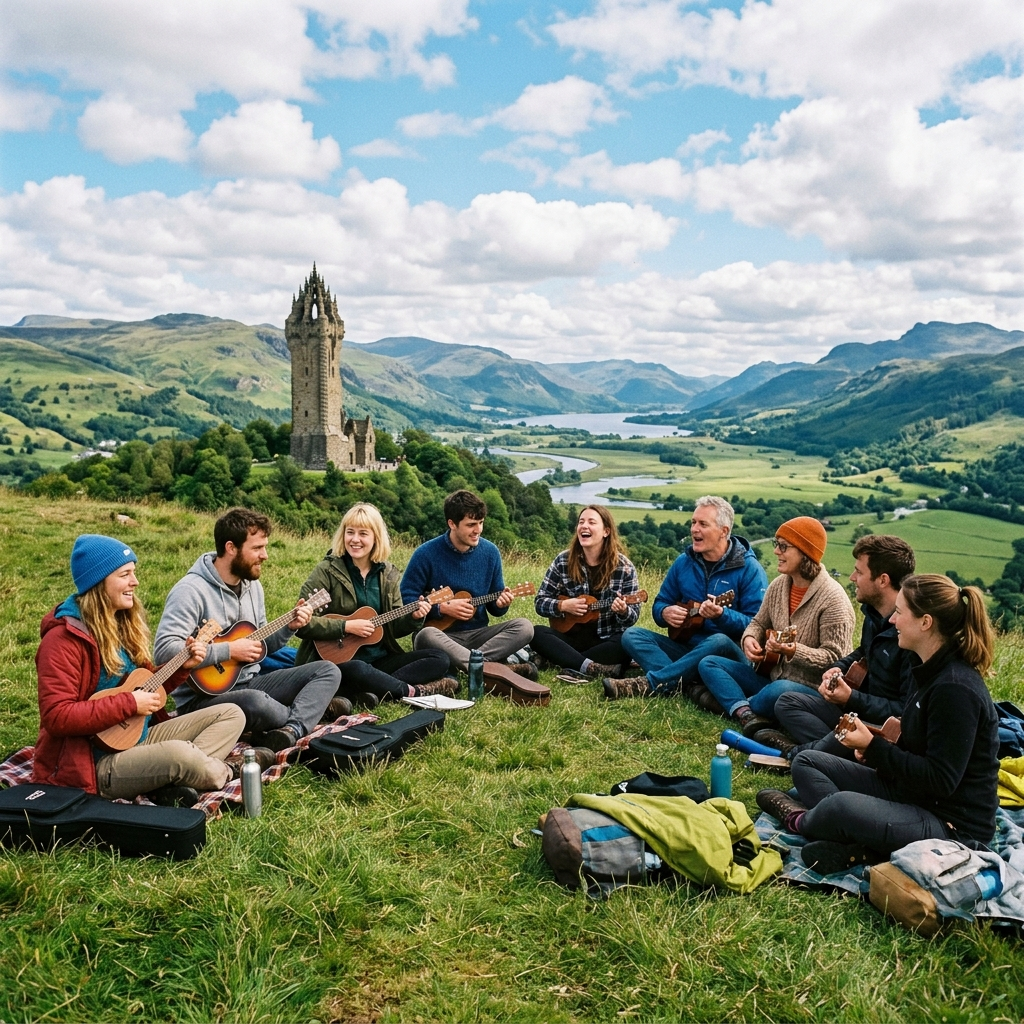
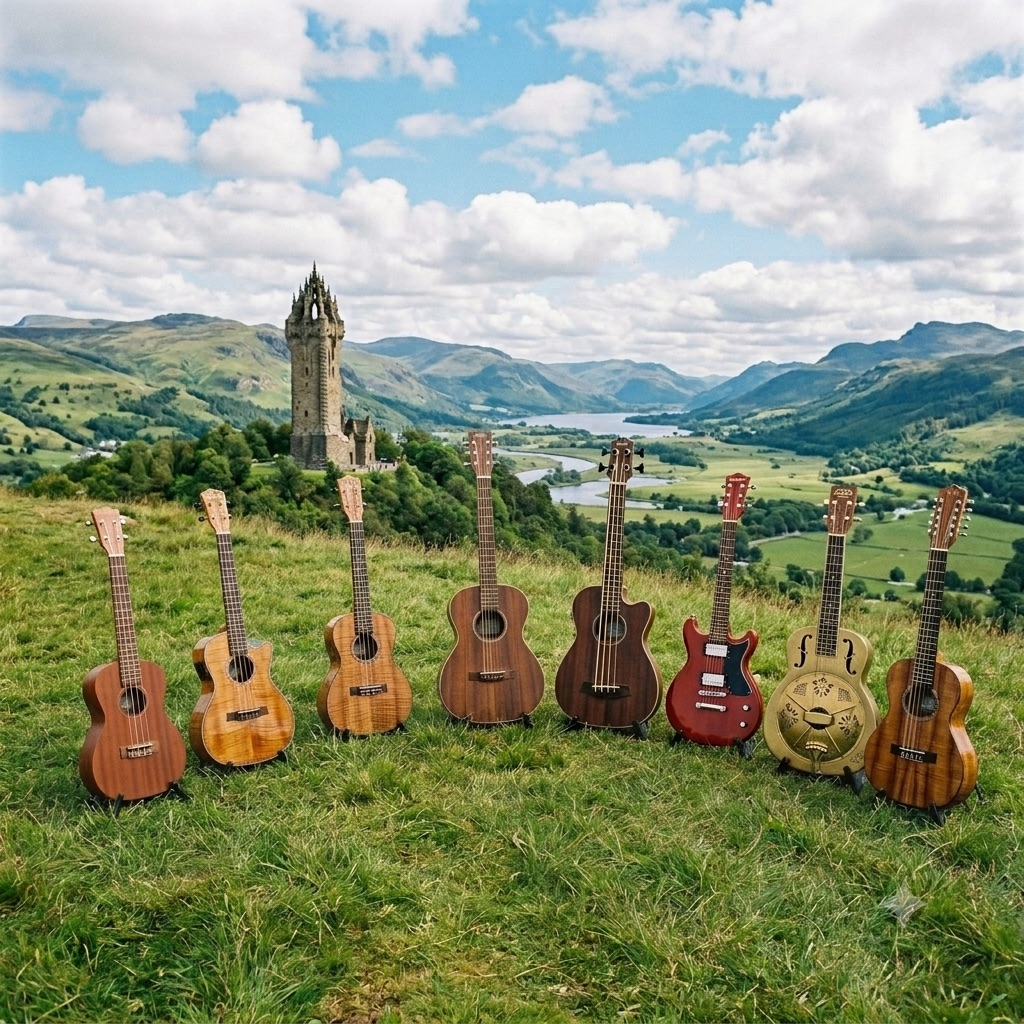
More tweaks

diff --git a/src/components/JoinUsPage.tsx b/src/components/JoinUsPage.tsx
@@ -13,20 +13,16 @@ import {
   ArrowRight 
 } from 'lucide-react';
 import logoBadge from '../assets/images/ochil_logo_badge_1785148841944.jpg';
-import ochilUkuleleImg from '../assets/images/ochil_hero_ukulele_1785147316608.jpg';
-import indoorPhoto from '../assets/images/gallery_indoor_group_1785148867749.jpg';
+import groupshotImg from '../assets/images/Groupshot.jpg';
 
 interface JoinUsPageProps {
   onOpenContact: () => void;
   onNavigateHome: () => void;
 }
 
-export const JoinUsPage: React.FC<JoinUsPageProps> = ({ onOpenContact, onNavigateHome }) => {
-  const scrollToForm = () => {
-    const element = document.getElementById('join-form-section');
-    if (element) {
-      element.scrollIntoView({ behavior: 'smooth', block: 'start' });
-    }
+export const JoinUsPage: React.FC<JoinUsPageProps> = ({ onOpenContact }) => {
+  const handleOpenJoinForm = () => {
+    window.open('https://heartfelt-biscotti-1bbd29.netlify.app/forms/join.html', '_blank');
   };
 
   return (
@@ -108,7 +104,7 @@ export const JoinUsPage: React.FC<JoinUsPageProps> = ({ onOpenContact, onNavigat
             {/* Prominent Action Button */}
             <div className="pt-4 flex flex-wrap items-center gap-4">
               <button
-                onClick={scrollToForm}
+                onClick={handleOpenJoinForm}
                 className="bg-[#596C34] hover:bg-[#4C5E2C] text-white px-8 py-4 rounded-xl font-extrabold text-sm sm:text-base uppercase tracking-wider shadow-lg transition-all active:scale-95 flex items-center gap-3 cursor-pointer"
               >
                 <Users className="w-5 h-5" />
@@ -130,8 +126,8 @@ export const JoinUsPage: React.FC<JoinUsPageProps> = ({ onOpenContact, onNavigat
           <div className="lg:col-span-5">
             <div className="relative rounded-3xl overflow-hidden shadow-xl border-4 border-white bg-[#2F1045] group">
               <img
-                src={ochilUkuleleImg}
-                alt="Ukuleles at the Ochil Hills"
+                src={groupshotImg}
+                alt="Ochil Strummers Group Shot"
                 className="w-full h-[420px] object-cover group-hover:scale-105 transition-transform duration-500"
                 referrerPolicy="no-referrer"
               />
@@ -150,7 +146,7 @@ export const JoinUsPage: React.FC<JoinUsPageProps> = ({ onOpenContact, onNavigat
       </section>
 
       {/* 3. Session Details & What to Expect Cards */}
-      <section className="bg-white py-12 sm:py-16 border-t border-b border-gray-200">
+      <section className="bg-white py-12 sm:py-16 border-t border-gray-200">
         <div className="max-w-7xl mx-auto px-4 sm:px-6 lg:px-8 space-y-10">
           
           <div className="text-center max-w-2xl mx-auto space-y-2">
@@ -215,7 +211,7 @@ export const JoinUsPage: React.FC<JoinUsPageProps> = ({ onOpenContact, onNavigat
             </div>
 
             <button
-              onClick={scrollToForm}
+              onClick={handleOpenJoinForm}
               className="bg-[#596C34] hover:bg-[#4C5E2C] text-white font-black px-8 py-4 rounded-xl text-xs sm:text-sm uppercase tracking-wider shadow-lg transition-all active:scale-95 shrink-0 cursor-pointer flex items-center gap-2"
             >
               <Users className="w-4 h-4" />
@@ -223,45 +219,6 @@ export const JoinUsPage: React.FC<JoinUsPageProps> = ({ onOpenContact, onNavigat
             </button>
           </div>
 
-        </div>
-      </section>
-
-      {/* 4. Embedded Registration Form Section */}
-      <section id="join-form-section" className="py-12 sm:py-16 bg-[#F4F2E9] border-t border-gray-200">
-        <div className="max-w-4xl mx-auto px-4 sm:px-6 lg:px-8 space-y-6">
-          <div className="bg-white rounded-3xl p-6 sm:p-10 border border-gray-200 shadow-xl space-y-6">
-            <div className="text-center max-w-2xl mx-auto space-y-2">
-              <span className="inline-block bg-[#EBF0E1] text-[#596C34] text-xs font-bold uppercase tracking-wider px-3.5 py-1 rounded-full border border-green-200">
-                Online Membership Form
-              </span>
-              <h2 className="text-2xl sm:text-3xl font-black font-serif text-[#3A1554]">
-                Register with Ochil Strummers
-              </h2>
-              <p className="text-xs sm:text-sm text-gray-600">
-                Please fill in your details in the secure form below to join our group. If you have trouble viewing the form, you can also{' '}
-                <a
-                  href="https://heartfelt-biscotti-1bbd29.netlify.app/forms/join.html"
-                  target="_blank"
-                  rel="noopener noreferrer"
-                  className="text-[#3A1554] font-bold underline hover:text-[#5C1D7A]"
-                >
-                  open the form directly in a new tab
-                </a>
-                .
-              </p>
-            </div>
-
-            {/* Form iframe container */}
-            <div className="relative w-full overflow-hidden rounded-2xl border border-gray-200 bg-white h-[680px] sm:h-[720px] md:h-[760px] shadow-inner">
-              <iframe
-                src="https://heartfelt-biscotti-1bbd29.netlify.app/forms/join.html"
-                title="Ochil Strummers Registration Form"
-                className="absolute inset-0 w-full h-full border-0"
-                referrerPolicy="no-referrer"
-                sandbox="allow-forms allow-scripts allow-same-origin allow-popups"
-              />
-            </div>
-          </div>
         </div>
       </section>
 

diff --git a/src/components/MembersPage.tsx b/src/components/MembersPage.tsx
@@ -73,20 +73,6 @@ export interface GigSetlist {
 
 const INITIAL_SETLISTS: GigSetlist[] = [
   {
-    id: 'set-1',
-    title: 'Monday Night Rehearsal Setlist',
-    date: 'Rehearsals Weekly at 7:30 PM',
-    location: 'The Johnstone Arms, Alva',
-    status: 'UPCOMING',
-    songs: [
-      { title: 'Loch Lomond', originalArtist: 'Traditional Scottish', key: 'C', tempo: '120 bpm', strumPattern: 'Calypso Strum (D D-U U-D-U)', notes: 'Our core club anthem. Practice the key transitions on the chorus.' },
-      { title: "I'm Gonna Be (500 Miles)", originalArtist: 'The Proclaimers', key: 'E', tempo: '132 bpm', strumPattern: 'Driving 4/4 March', notes: 'Keep a fast steady tempo. Staccato strums on verses.' },
-      { title: 'Wild Mountain Thyme', originalArtist: 'Traditional Scottish', key: 'G', tempo: '90 bpm', strumPattern: '3/4 Waltz Strum (D D U)', notes: 'Arpeggiated fingerstyle pattern optional for intro.' },
-      { title: 'Dirty Old Town', originalArtist: 'The Pogues / Ewan MacColl', key: 'G', tempo: '105 bpm', strumPattern: 'Steady Folk (D D U D D U)', notes: 'Transition to key of C on the third verse.' },
-      { title: 'Sloop John B', originalArtist: 'The Beach Boys', key: 'G', tempo: '122 bpm', strumPattern: 'Calypso Strum', notes: 'Focus on clean C to D7 changes in the chorus.' }
-    ]
-  },
-  {
     id: 'set-2',
     title: 'Alva Games Community Gala Live Set',
     date: 'Saturday, August 15, 2026 at 2:30 PM',
@@ -122,7 +108,7 @@ export const MembersPage: React.FC<MembersPageProps> = ({ onOpenContact, onNavig
   // Tab State for Logged In Member Portal
   const [activeTab, setActiveTab] = useState<'SONGBOOKS' | 'SETLISTS' | 'MARKETPLACE' | 'WORKSHOPS'>('SONGBOOKS');
   const [setlists, setSetlists] = useState<GigSetlist[]>(INITIAL_SETLISTS);
-  const [selectedSetlistId, setSelectedSetlistId] = useState<string>('set-1');
+  const [selectedSetlistId, setSelectedSetlistId] = useState<string>('set-2');
   const [selectedSongDetails, setSelectedSongDetails] = useState<SetlistSong | null>(null);
 
   // Setlists Modal State (Committee / Leader Authority)
@@ -673,18 +659,6 @@ But I would walk 500 miles, and I would walk 500 more!</div>
               </p>
             </div>
 
-            {/* Right Column: Logo Badge */}
-            <div className="shrink-0 flex items-center gap-4">
-              <div className="w-16 h-16 sm:w-20 sm:h-20 rounded-full overflow-hidden border-2 border-amber-300/80 shadow-lg bg-white shrink-0">
-                <img 
-                  src={logoBadge} 
-                  alt="Ochil Strummers Logo" 
-                  className="w-full h-full object-cover" 
-                  referrerPolicy="no-referrer"
-                />
-              </div>
-            </div>
-
           </div>
         </div>
       </section>
@@ -1023,9 +997,6 @@ But I would walk 500 miles, and I would walk 500 more!</div>
                     Current Songbook
                   </h3>
                 </div>
-                <p className="text-xs sm:text-sm text-gray-600 max-w-md">
-                  Our latest 2026 rehearsal editions and gig performance books. Standard GCEA &amp; Baritone DGBE chords included.
-                </p>
               </div>
 
               <div className="grid grid-cols-1 lg:grid-cols-2 gap-6">

diff --git a/src/components/AboutUsPage.tsx b/src/components/AboutUsPage.tsx
@@ -21,6 +21,7 @@ import {
 import logoBadge from '../assets/images/ochil_logo_badge_1785148841944.jpg';
 import thistlePhoto from '../assets/images/gallery_thistle_flower_1785148905098.jpg';
 import pubSessionPhoto from '../assets/images/ukulele_pub_session_1785257120765.jpg';
+import alvaRehearsalPhoto from '../assets/images/gallery_outdoor_monument_1785148882137.jpg';
 
 export interface AboutUsPageProps {
   onOpenContact?: () => void;
@@ -107,13 +108,22 @@ export const AboutUsPage: React.FC<AboutUsPageProps> = ({
             </div>
           </div>
 
-          {/* Right Image Card Column - Replaced with an elegant premium CSS visual placeholder */}
+          {/* Right Image Card Column - Replaced with Alva rehearsal home image background */}
           <div className="lg:col-span-5 relative mt-2 lg:mt-0">
-            <div className="relative rounded-[28px] overflow-hidden shadow-2xl bg-gradient-to-br from-[#4C1D95] via-[#3A1554] to-[#1E0B2E] p-8 text-white h-[450px] sm:h-[520px] flex flex-col justify-between border border-purple-500/20">
+            <div className="relative rounded-[28px] overflow-hidden shadow-2xl p-8 text-white h-[450px] sm:h-[520px] flex flex-col justify-between border border-purple-500/20">
+              
+              {/* Background Image and Overlays */}
+              <img 
+                src={alvaRehearsalPhoto} 
+                alt="Alva Rehearsal Home" 
+                className="absolute inset-0 w-full h-full object-cover z-0"
+                referrerPolicy="no-referrer"
+              />
+              <div className="absolute inset-0 bg-gradient-to-t from-[#200A30]/95 via-[#3A1554]/70 to-[#4C1D95]/40 z-10" />
               
               {/* Decorative Background Elements */}
-              <div className="absolute inset-0 bg-[radial-gradient(circle_at_top_right,rgba(251,191,36,0.15),transparent_60%)] pointer-events-none" />
-              <div className="absolute top-10 right-10 opacity-10 pointer-events-none">
+              <div className="absolute inset-0 bg-[radial-gradient(circle_at_top_right,rgba(251,191,36,0.15),transparent_60%)] pointer-events-none z-10" />
+              <div className="absolute top-10 right-10 opacity-20 pointer-events-none z-10">
                 <Music className="w-32 h-32 text-white" />
               </div>
 

diff --git a/src/components/Header.tsx b/src/components/Header.tsx
@@ -1,5 +1,5 @@
 import React, { useState } from 'react';
-import { Facebook, Instagram, Mail, Menu, X, Youtube } from 'lucide-react';
+import { Facebook, Instagram, Menu, X } from 'lucide-react';
 
 interface HeaderProps {
   activeNav: string;
@@ -101,24 +101,6 @@ export const Header: React.FC<HeaderProps> = ({ activeNav, setActiveNav, onOpenC
             >
               <TikTokIcon className="w-3.5 h-3.5 sm:w-4 sm:h-4" />
             </a>
-
-            <a
-              href="https://youtube.com"
-              target="_blank"
-              rel="noreferrer"
-              className="w-8 h-8 sm:w-10 sm:h-10 rounded-full bg-[#3A1554] text-white flex items-center justify-center hover:bg-[#5C1D7A] transition-colors shadow-xs"
-              aria-label="YouTube Channel"
-            >
-              <Youtube className="w-4 h-4 sm:w-5 sm:h-5" />
-            </a>
-
-            <button
-              onClick={onOpenContact}
-              className="w-8 h-8 sm:w-10 sm:h-10 rounded-full bg-[#3A1554] text-white flex items-center justify-center hover:bg-[#5C1D7A] transition-colors shadow-xs cursor-pointer"
-              aria-label="Contact Email"
-            >
-              <Mail className="w-4 h-4 sm:w-5 sm:h-5" />
-            </button>
 
             {/* Mobile Menu Button */}
             <button

diff --git a/src/components/SectionModals.tsx b/src/components/SectionModals.tsx
@@ -1,10 +1,10 @@
 import React, { useState } from 'react';
 import { X, Calendar, MapPin, Music, Volume2, Sparkles, Check } from 'lucide-react';
 import { playStrumChord } from '../utils/audioTuner';
-import photo1 from '../assets/images/photo1.jpeg';
-import photo2 from '../assets/images/photo2.jpeg';
-import photo3 from '../assets/images/photo3.jpeg';
-import photo4 from '../assets/images/photo4.jpeg';
+import photo1 from '../assets/images/gallery_outdoor_monument_1785148882137.jpg';
+import photo2 from '../assets/images/ukulele_pub_session_1785257120765.jpg';
+import photo3 from '../assets/images/gallery_indoor_group_1785148867749.jpg';
+import photo4 from '../assets/images/gallery_women_strummers_1785148893490.jpg';
 
 interface ModalProps {
   type: 'CONTACT' | 'EVENTS' | 'SONGBOOK' | 'ABOUT' | 'GALLERY' | null;

diff --git a/src/components/EventsAndPhotosSection.tsx b/src/components/EventsAndPhotosSection.tsx
@@ -1,9 +1,9 @@
 import React, { useState } from 'react';
 import { Clock, ArrowRight, X } from 'lucide-react';
-import photo1 from '../assets/images/photo1.jpeg';
-import photo2 from '../assets/images/photo2.jpeg';
-import photo3 from '../assets/images/photo3.jpeg';
-import photo4 from '../assets/images/photo4.jpeg';
+import photo1 from '../assets/images/gallery_outdoor_monument_1785148882137.jpg';
+import photo2 from '../assets/images/ukulele_pub_session_1785257120765.jpg';
+import photo3 from '../assets/images/gallery_indoor_group_1785148867749.jpg';
+import photo4 from '../assets/images/gallery_women_strummers_1785148893490.jpg';
 
 interface EventsAndPhotosSectionProps {
   onOpenEventsModal: () => void;
